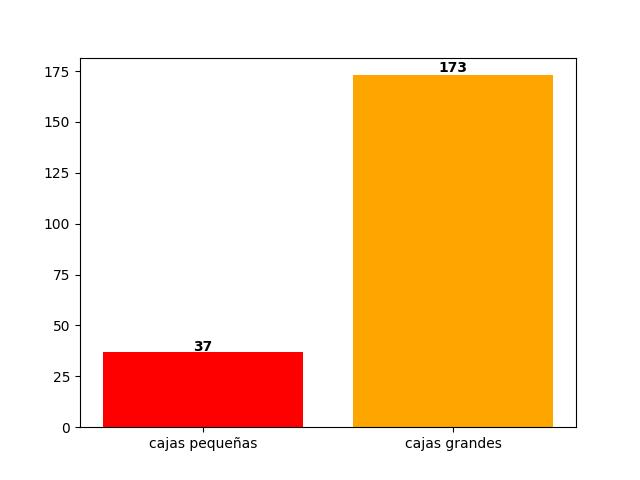
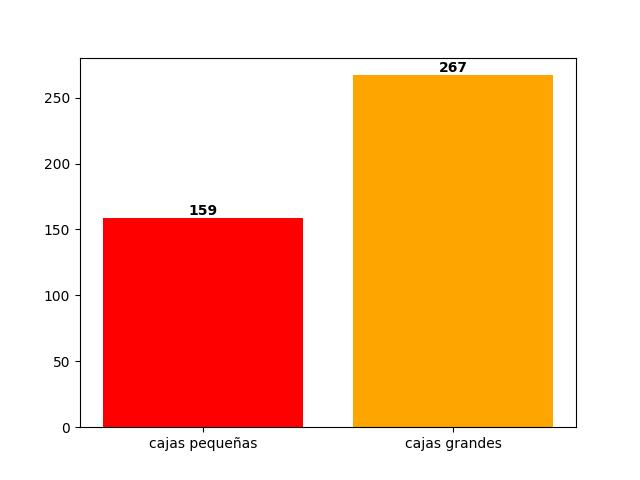
Final_process

diff --git a/templates/contact.html b/templates/contact.html
@@ -1,0 +1,19 @@
+<!doctype html>
+<html>
+<head>
+  <title>Contactos</title>
+    <meta name="description" content="Página principal">
+    <meta name="keywords" content="HTML template - plantilla">
+</head>
+
+<body>
+    {% extends "base.html" %}
+    {% block title %}Contact us{% endblock %}
+    {% block content %}
+    
+    <h1> Juan Manuel Romero : +57 314 781 9989 </h1> 
+    <h1> Jhonathan Ramirez : +57 313 614 1274 </h1> 
+    <h1> Sebastian Betancourt : +57 322 878 4404 </h1>              
+    {% endblock %}
+</body>
+</html>

diff --git a/prueba234.py b/prueba234.py
@@ -17,36 +17,9 @@ conexion=psycopg2.connect(user='xxbafeigeplqzf',
 
 cursor=conexion.cursor()
 
-@app.route('/',methods=['GET', 'POST'])
-def index(name=None):
-    return render_template('index.html',name=name)
 
-
-@app.route("/getData",methods=("POST","GET"))
-def getData():
-    cursor
-    sql=("SELECT * from datosrecibidos ")
-    cursor.execute(sql)
-    data = cursor.fetchall()
-    df = pd.DataFrame(data,columns=["id",'cajas_p','cajas_g'])
-    df['cajas_p']=df['cajas_p'].astype('int64')
-    df['cajas_g']=df['cajas_g'].astype('int64')
-    print(df.info())
-    suma_p=df['cajas_p'].sum()
-    suma_g=df['cajas_g'].sum()
-    datos=[suma_p,suma_g]
-    ejex=['cajas pequeñas','cajas grandes']
-    fig, ax = plt.subplots(1,2)
-    normdata= colors.Normalize(0, max(datos))
-    colormap = cm.get_cmap("Blues")
-    colores =colormap(normdata(datos))
-    ax[0].bar(ejex,datos)
-    ax[1].pie(datos,labels=ejex,autopct="%0.1f %%",colors=colores)
-    plt.savefig("static/Ejemplo2.jpg")
-    return render_template('index.html')
-
-@app.route("/prueba",methods=("POST","GET"))
-def prueba():
+@app.route("/",methods=("POST","GET"))
+def index():
     cursor
     sql=("SELECT * from datosrecibidos ")
     cursor.execute(sql)
@@ -83,6 +56,10 @@ def prueba():
     plt.savefig("static/Ejemplo4.jpg")
     plt.close()
     return render_template('index.html')    
+
+@app.route("/contacto",methods=("POST","GET"))
+def contactos():
+    return render_template('contact.html')
 
 if __name__ == '__main__':
     app.run(port=5432)

diff --git a/banda.py b/banda.py
@@ -13,7 +13,7 @@ GPIO.setup(sensor1, GPIO.IN)
 GPIO.setup(sensor2, GPIO.IN)
 #Salidas 
 motor_banda = 18
-servo1 = 17
+servo1 = 17    
 servo2 = 27
 motor_caja_grande1 = 5
 motor_caja_grande2 = 6
@@ -42,7 +42,7 @@ try:
 
  cursor=conexion.cursor()
 
- sql='INSERT INTO datosrecibidos (caja_grande,caja_pequeña) VALUES (%s,%s)'
+ sql='INSERT INTO datosrecibidos (caja_grande,caja_pequena) VALUES (%s,%s)'
  print('base conectada')
 except:
  print('no se conecto')
